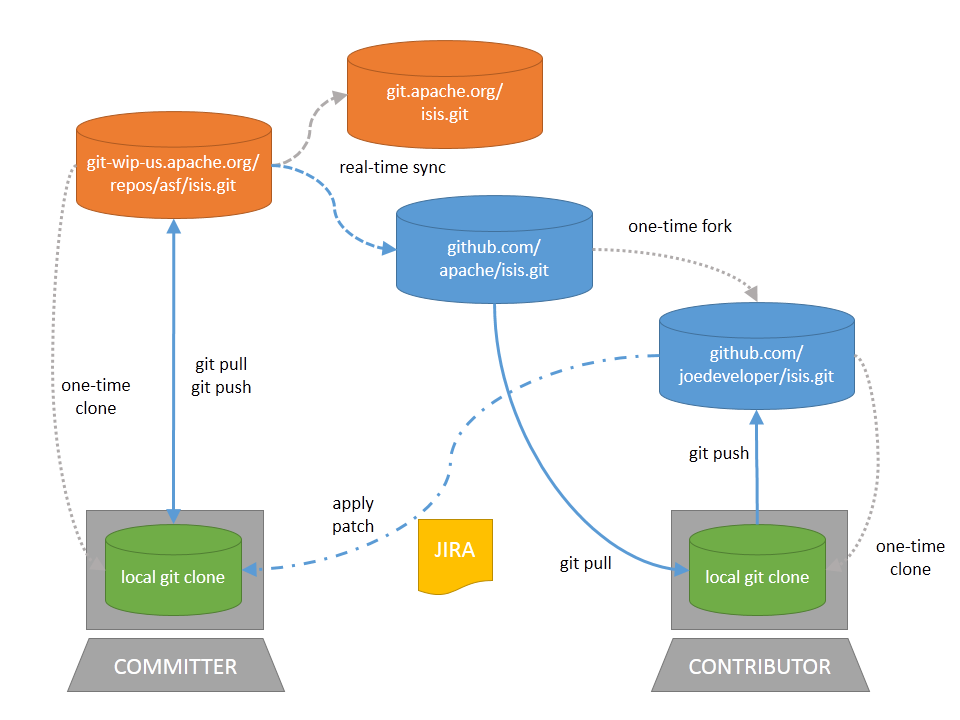
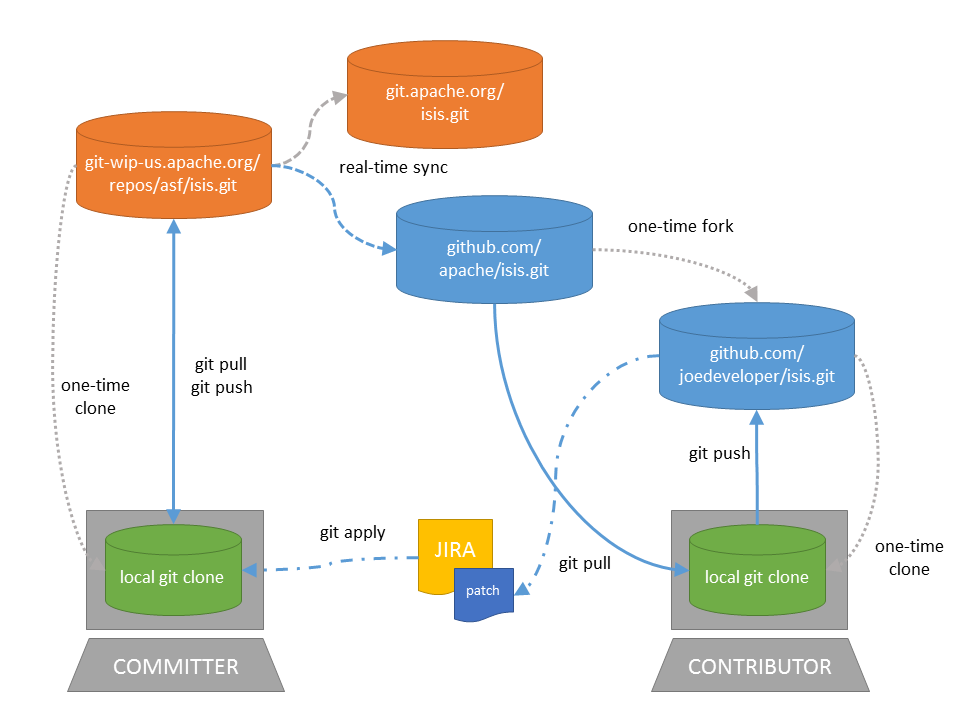
updated page on contributing
git-svn-id: https://svn.apache.org/repos/asf/isis/site/trunk@1492280 13f79535-47bb-0310-9956-ffa450edef68

diff --git a/content/contributors/contributing.md b/content/contributors/contributing.md
@@ -24,7 +24,7 @@ That is:
 
 The diagram also indicates the [JIRA](https://issues.apache.org/jira/browse/ISIS) ticket; all work in Isis should tracked in JIRA.  Before you decide to start hacking with Isis, it's always worth creating a ticket in JIRA and then have a discussion about it on the [mailing lists](http://isis.apache.org/support.html).  
 
-Assuming you have a JIRA ticket, generally speaking all you need to do once you have your patch is to add a comment with the URL to your patch on your github fork; the Isis committer can then pull down your change.  
+Assuming you have a JIRA ticket, generally speaking all you need to do once you have your patch is to add a comment with the URL to your patch on your github fork; the Isis committer can then download your patch from the JIRA ticket, review it, and apply your patch.  
 
 As a slight simplification to the above, you may decide to clone directly from [github.com/apache/isis](https://github.com/apache/isis.git) rather than create your own fork:
 
@@ -87,6 +87,18 @@ why this is a problem, and how the patch fixes the problem when applied.
 </pre>
 
 Once your git repo is setup, the next thing you'll most likely want to do is to setup your development environment.  See [here](development-environment.html) for more details.
+
+##Creating the patch file
+
+If you are working off your own github fork, then you can use github to generate your patch files.  Attach them to the relevant JIRA.
+
+If you are working without a github fork, then you can create the patches from your own local git repository.
+
+As per [this stackoverflow question](http://stackoverflow.com/questions/6658313/generate-a-git-patch-for-a-specific-commit), create the patch using `git format-patch`:
+
+    git format-patch -10 HEAD --stdout > 0001-last-10-commits.patch
+
+Here `-10` is the last 10 commits you have done. You need to change that integer according to the commits you need to apply into the patch.
 
 ##Sample Contribution Workflow
 
